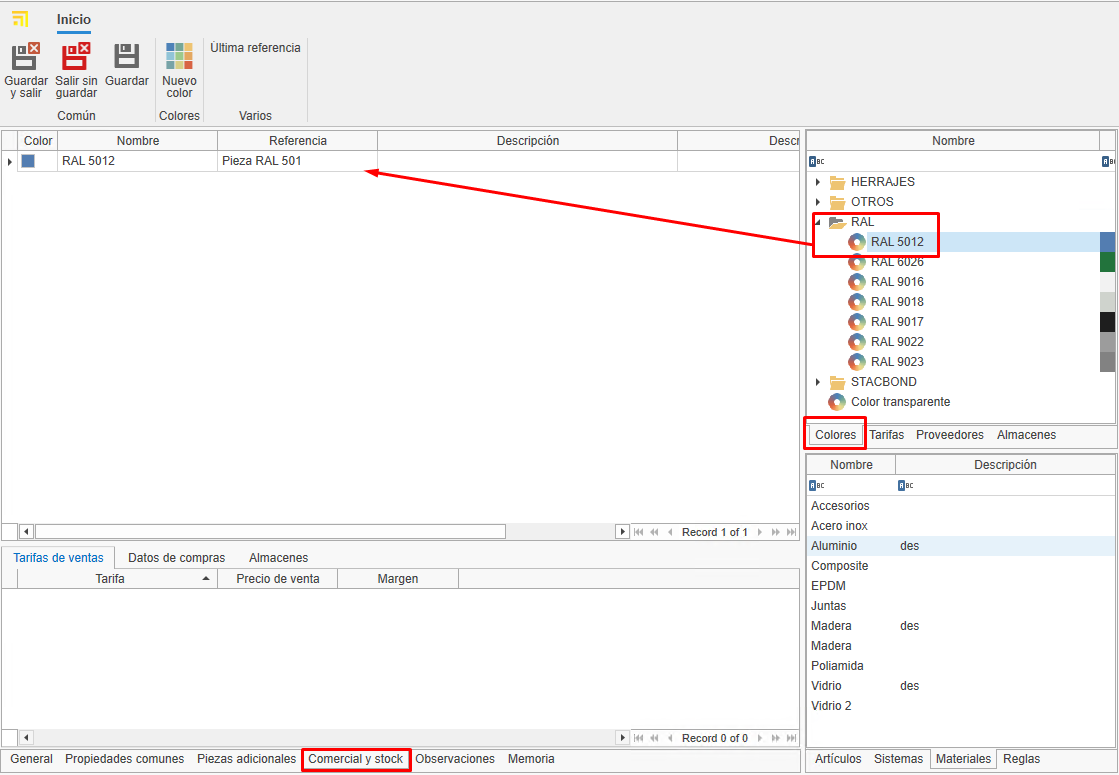
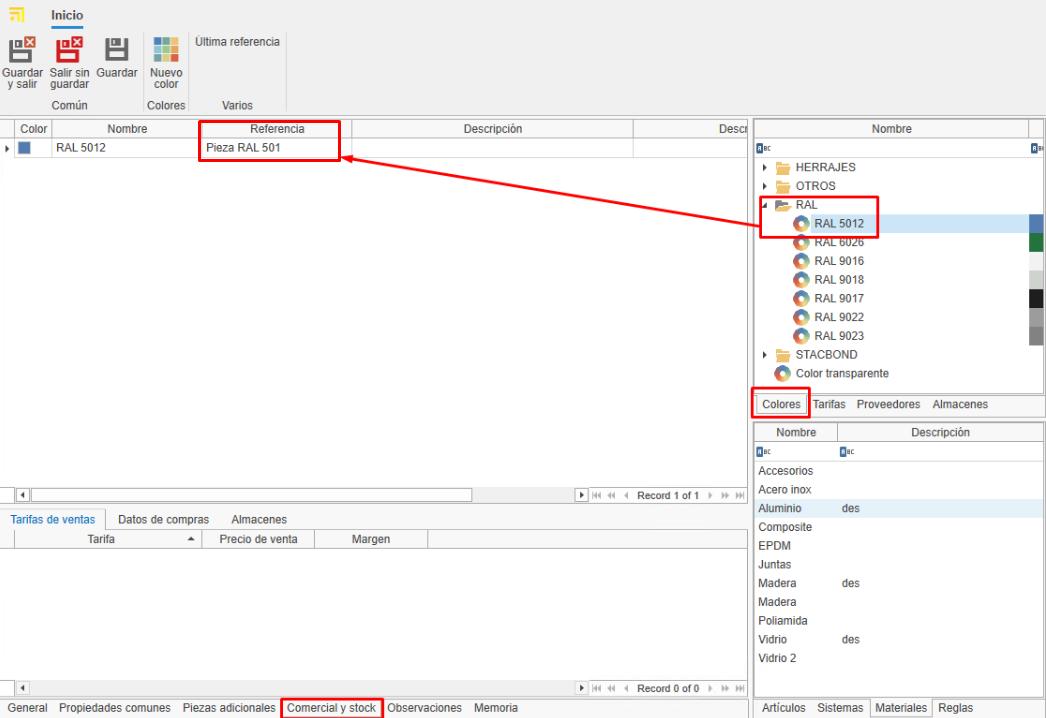
Update info enMATERIALS

diff --git a/05_Crear_Materiales_enMATERIAL.md b/05_Crear_Materiales_enMATERIAL.md
@@ -1,45 +1,73 @@
 # Manual de Usuario
 
 ## Índice
+
 1. [Introducción](#1-introducción)
+
 2. [Definición de Materiales](#2-definición-de-materiales)
+
    - [2.1. Tipos de Materiales](#21-tipos-de-materiales)
+
    - [2.2. Artículos y Colores](#22-artículos-y-colores)
+
 3. [Creación de Materiales](#3-creación-de-materiales)
+
    - [3.1. Definir un Material](#31-definir-un-material)
+
    - [3.2. Asignación de Colores](#32-asignación-de-colores)
+
 4. [Gestión de Proveedores](#4-gestión-de-proveedores)
+
 5. [Comercial y Stock](#5-comercial-y-stock)
+
    - [5.1. Datos de Compra y Proveedores](#51-datos-de-compra-y-proveedores)
+
    - [5.2 Asignación de Referencias](#52-asignación-de-referencias)
+
 6. [Creación de un Nuevo Material](#6-creación-de-un-nuevo-material)
+
    - [6.1. Pasos para Crear un Material](#61-pasos-para-crear-un-material)
+
    - [6.2. Definición de Descripciones](#62-definición-de-descripciones)
+
 7. [Estándares a Seguir](#7-estándares-a-seguir)
+
 8. [Creación de Documentos de Compra](#8-creación-de-documentos-de-compra)
+
 9. [Tipología de Materiales](#9-tipología-de-materiales)
+
    - [9.1. Piezas](#91-piezas)
+
    - [9.2. Chapas y Superficies](#92-chapas-y-superficies)
+
    - [9.3. Barras y Perfiles](#93-barras-y-perfiles)
+
 10. [Conclusión](#10-conclusión)
 
 ---
 
 ## 1. Introducción
+
 Este manual tiene como objetivo explicar el proceso de alta de materiales dentro del sistema, asegurando la correcta definición y gestión de los mismos.
 
 ---
 
 ## 2. Definición de Materiales
+
 Los materiales pueden ser de diferentes tipos: pieza, barra, junta o superficie. Dependiendo del tipo, tendrán distintas propiedades.
 
 ### 2.1 Tipos de Materiales
+
 - **Piezas**: Son los materiales más comunes y sencillos de definir.
+
 - **Barras**: Requieren información adicional como longitud y medidas de seguridad.
+
 - **Superficies**: Se valoran por metro cuadrado y pueden incluir características adicionales.
+
 - **Juntas**: Tienen especificaciones especiales para su aplicación.
 
 ### 2.2 Artículos y Colores
+
 Los materiales se definen dentro de "Artículos", mientras que los acabados se manejan en la sección de "Colores" y la materia prima en "Materiales".
 
 ![articulos_colores](Imagenes/05_Crear_Material/articulos_colores.png)
@@ -47,9 +75,10 @@ Los materiales se definen dentro de "Artículos", mientras que los acabados se m
 ---
 
 ## 3. Creación de Materiales
+
 Para dar de alta un material, se deben seguir estos pasos:
 
-### 3.1 Definir un Articulo
+### 3.1. Definir un Articulo
 
 1. Acceder a la sección de "Artículos".
 
@@ -58,18 +87,23 @@ Para dar de alta un material, se deben seguir estos pasos:
 ![nuevo_articulos](Imagenes/05_Crear_Material/nuevo_articulo.png)
 
 2. Para crear un nuevo artículo es necesario que se asigne una referencia, un tipo de calculo y un material.
+
+![referencia](Imagenes/05_Crear_Material/referencia.png)
+
+3.  El campo familia1,2,3.. es para organizar los articulos por niveles.
+
+![familias_articulo](Imagenes/05_Crear_Material/familias_articulo.png)
+
+4. Completar la descripción de compra (para proveedores) y la de venta (para clientes).
+
+![descripcion_articulo](Imagenes/05_Crear_Material/descripcion_articulo.png)
+
+5. Para asignar material base a un artculo solo hay que arrastrar un material del arbol de materiales en la cinta derecha.
+
+![material](Imagenes/05_Crear_Material/material.png)
+
  
- ![referencia](Imagenes/05_Crear_Material/referencia.png)
-
-3. Para asignar material a un artculo solo hay que arrastrar un material del arbol de materiales en la cinta derecha. 
- 
- ![material](Imagenes/05_Crear_Material/material.png)
-
- 4. Para asignar un color (o un grupo de colores) se hace desde la pestaña **Comercial y stock**. Para eso hay que arrastrar uno o mas colores desde la pestaña de colores que se encuentra a la derecha de la ventana (para elegir mas de un color usar o ctrl+click derecho, tambien se puede asignar toda una familia/carta de color arrastrando la carpeta.)
-
-  ![asignar_color](Imagenes/05_Crear_Material/asignar_color.png)
-
-### 3.2 Creacion y Asignación de colores
+### 3.2. Creacion de colores
 
 1. Acceder a la sección de "Colores".
 
@@ -77,77 +111,137 @@ Para dar de alta un material, se deben seguir estos pasos:
 
 ![nuevo_color](Imagenes/05_Crear_Material/nuevo_color.png)
 
-2. Para crear un color nuevo desde "General" es necesario que se asigne una referencia, nombre y un color o textura.
+2. Para crear un color nuevo desde "General" es necesario que se asigne referencia, nombre y un color o textura.
 
 ![crear_color](Imagenes/05_Crear_Material/crear_color.png)
 
-   Tambien se puede asignar un proveedor a los colores. Desde la pestaña "Proveedor" arrastrar el proveedor que se encuentra en la ventana a la derecha.
+  - Tambien se puede asignar un proveedor a los colores. Desde la pestaña "Proveedor" arrastrar el proveedor que se encuentra en la ventana a la derecha.
 
-   ![proveedor_color](Imagenes/05_Crear_Material/proveedor_color.png)
+![proveedor_color](Imagenes/05_Crear_Material/proveedor_color.png)
 
-> Por defecto la base de datos tendra la carta ral dada de alta.
+---
 
-2. Asignar un nombre y referencia al color.
-3. Vincular el color al artículo correspondiente.
+### 3.3. Creación de un material base
+
+1. Acceder a la sección de "Materiales".
+
+![materiales](Imagenes/05_Crear_Material/materiales.png)
+
+![nuevo_material](Imagenes/05_Crear_Material/nuevo_material.png)
+
+2. Para crear un material nuevo hay que indicar nombre, color y marcar el check Material(ese check tiene que estar marcado si quieres que aparezca como una materia prima para seleccionar cuando creas o edita un articulo).
+
+![crear_material](Imagenes/05_Crear_Material/crear_material.png)
+
+
+> **Nota:** Para que la base de datos te crees la carta RAL de colores y algunos materiales bases por defecto tienes la opcion de selecionar el boton **Esenciales** en la barra de "Inicio".
+
+![esenciales](Imagenes/05_Crear_Material/esenciales.png)
+
+> **Nota:**  Se insertara de manera automatica los colores y materiales bases a la base de datos.
+
+![ral](Imagenes/05_Crear_Material/ral.png)
+
+![material_articulo](Imagenes/05_Crear_Material/material_articulo.png)
 
 ---
 
 ## 4. Gestión de Proveedores
-Antes de dar de alta un material, se debe verificar si el proveedor ya está registrado. En caso contrario, se debe crear siguiendo los estándares definidos.
+
+Antes de dar de alta un material, se debe verificar si el proveedor ya está registrado en ENBLAU en el apartado de "Compras" "Proveedores". En caso contrario, se debe crear siguiendo los estándares definidos.
+
+![proveedores_enblau](Imagenes/05_Crear_Material/proveedores_enblau.png)
 
 ---
 
 ## 5. Comercial y Stock
+
 Una vez definido el material, se debe proceder a completar su información en las secciones de comercial y stock.
 
-### 5.1 Datos de Compra y Proveedores
-Se asignan proveedores y precios de compra según cada color del material.
+### 5.2. Asignación de Referencias
 
-### 5.2 Asignación de Referencias
-Cada color y material tendrá una referencia única que lo identificará en el sistema.
+Cada color y material tendrá una referencia única que lo identificará en el sistema _(Referencia Articulo + Referencia color)_. Para eso hay que arrastrar uno o mas colores desde la pestaña de colores que se encuentra a la derecha de la ventana (para elegir mas de un color usar _ctrl+click derecho_, tambien se puede asignar toda una familia/carta de color arrastrando la carpeta.)
+
+![asignar_color](Imagenes/05_Crear_Material/asignar_color.png)
+
+### 5.2. Datos de Compra y Proveedores
+
+Se asignan proveedores, unidades y precios de compra según cada color del material.
+
+![asignar_proveedor](Imagenes/05_Crear_Material/asignar_proveedor.png)
+
+> **Nota:** Se puede añadir una referencia de proveedor si es distinta de la que esta dada de alta en la base de datos.
 
 ---
 
-## 6. Creación de un Nuevo Material
-### 6.1 Pasos para Crear un Material
-1. Ingresar una nueva referencia.
-2. Seleccionar un proveedor habitual.
-3. Definir descripciones de compra y venta.
-4. Asignar un material base.
+## 6. Tipología de Materiales
 
-### 6.2 Definición de Descripciones
-Se debe completar la descripción de compra (para proveedores) y la de venta (para clientes).
+### 6.1. Piezas
+
+- Materiales individuales que se gestionan por unidad. Como informacion adicional en la pestaña "Propriedades Comunes" se puede indicar algunos campos extra segun vea necesario.
+
+![articulos_propriedades](Imagenes/05_Crear_Material/articulos_propriedades.png)
+
+### 6.2. Chapas y Superficies
+
+- Se valoran por metro cuadrado.
+
+- Hay que añadir dimensiones de ancho y alto por defecto.
+
+![articulos_propriedades](Imagenes/05_Crear_Material/articulos_propriedades.png)
+
+### 9.3 Barras y Perfiles
+
+- Se definen por longitud y otros atributos técnicos.
+
+- En algunos casos, incluyen descuentos y normativas especiales.
 
 ---
 
 ## 7. Estándares a Seguir
+
 Para asegurar una correcta gestión, se deben seguir estos estándares:
+
 - Uso de mayúsculas en nombres y referencias.
+
 - Verificación previa antes de dar de alta un proveedor o material.
+
 - Formato uniforme en referencias de materiales y colores.
 
 ---
 
 ## 8. Creación de Documentos de Compra
+
 1. Seleccionar el proveedor.
+
 2. Buscar y agregar el material.
+
 3. Validar el precio asignado al proveedor.
 
 ---
 
 ## 9. Tipología de Materiales
+
 ### 9.1 Piezas
+
 Materiales individuales que se gestionan por unidad.
 
 ### 9.2 Chapas y Superficies
+
 - Se valoran por metro cuadrado.
+
 - Incluyen dimensiones de ancho y alto por defecto.
 
 ### 9.3 Barras y Perfiles
+
 - Se definen por longitud y otros atributos técnicos.
+
 - En algunos casos, incluyen descuentos y normativas especiales.
 
 ---
 
+
+
 ## 10. Conclusión
+
 Siguiendo este manual, el usuario podrá dar de alta y gestionar materiales correctamente dentro del sistema, asegurando su correcta organización y compra-venta.
